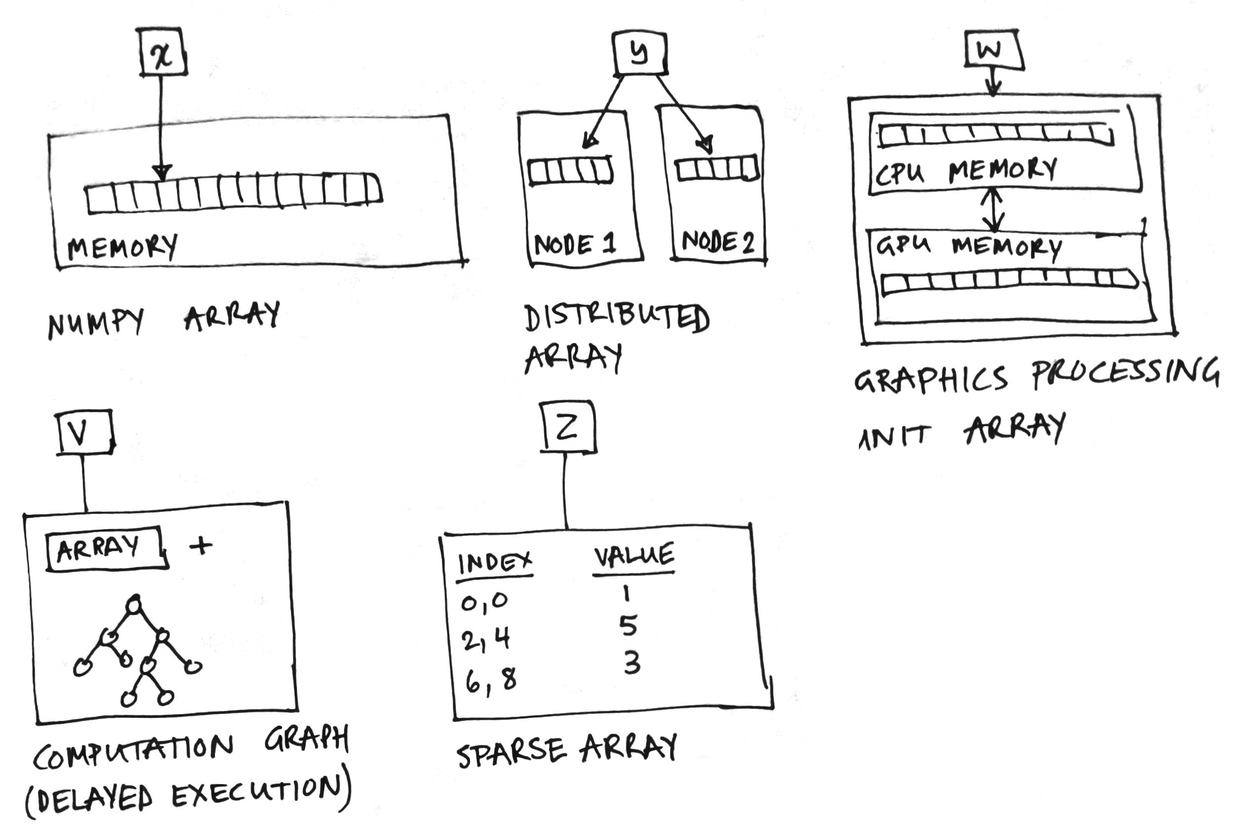
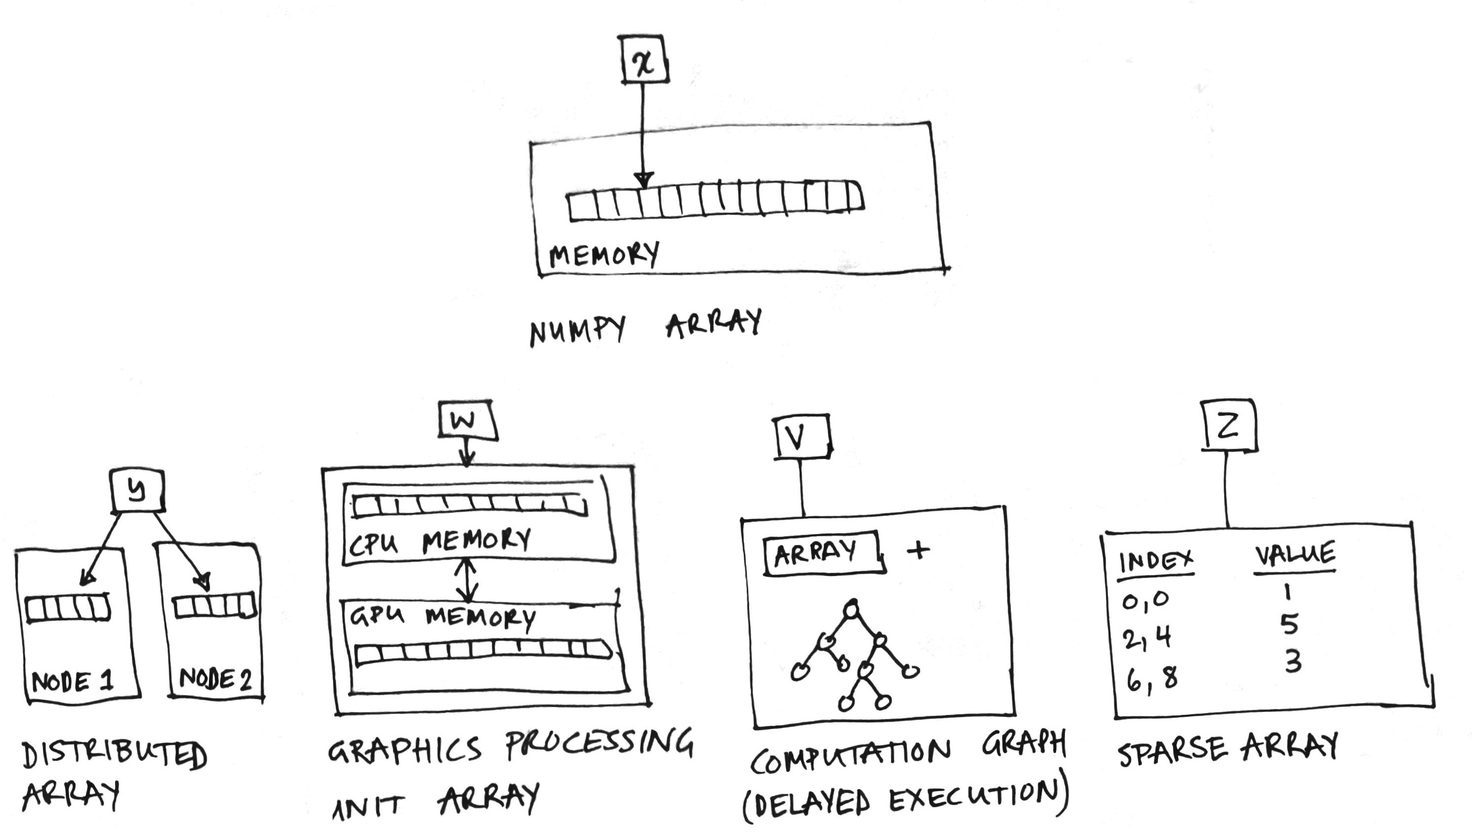
Minor revisions

diff --git a/body.tex b/body.tex
@@ -1,4 +1,4 @@
-Two different Python array packages existed before NumPy.
+Two Python array packages existed before NumPy.
 The Numeric package began in the mid-90s and provided an array object in
 Python, written in C, and linking to standard fast implementations of linear
 algebra.
@@ -38,19 +38,64 @@ a language for array programming.
   \label{fig:array-concepts}
 \end{figure*}
 
-The NumPy array is a data structure that efficiently stores and accesses $n$-dimensional arrays, also known as tensors \cite{vanderwalt2011numpy}, that enables a wide variety of scientific computation.  It consists of a pointer to memory, along with meta-data used to interpret the data stored there, notably {\em data type}, {\em shape}, and {\em strides} (see Figure~\ref{fig:array-concepts}).
+The NumPy array is a data structure that efficiently stores and accesses
+$n$-dimensional arrays \cite{vanderwalt2011numpy}, also known as tensors, that
+enables a wide variety of scientific computation.
+It consists of a pointer to memory, along with meta-data used to interpret the
+data stored there, notably {\em data type}, {\em shape}, and {\em strides}
+(Fig.~\ref{fig:array-concepts}a).
 
-The {\em data type} describes the nature of elements stored in an array.  An array has a single data type, and each array element occupies the same number of bytes in memory.  Examples of data types include real and complex numbers (of lower and higher precision), strings, timestamps, and pointers to Python objects.
+The {\em data type} describes the nature of elements stored in an array.
+An array has a single data type, and each array element occupies the same
+number of bytes in memory.
+Examples of data types include real and complex numbers (of lower and higher
+precision), strings, timestamps, and pointers to Python objects.
 
-The {\em shape} of an array determines the number of elements along each axis, and the number of axes is the array's dimensionality. For example, a vector of numbers can be stored as a one dimensional array of shape $N$, while color videos are four dimensional arrays of shape $T \times M \times N \times 3$.
+The {\em shape} of an array determines the number of elements along each axis,
+and the number of axes is the array's dimensionality.
+For example, a vector of numbers can be stored as a one dimensional array of
+shape $N$, while color videos are four dimensional arrays of shape
+$T \times M \times N \times 3$.
 
-{\em Strides} are necessary to interpret computer memory, which stores elements linearly, as $n$-dimensional arrays.  It describes the number of bytes to move forward in memory to jump from row to row, column to column, and so forth.  Consider, for example, a 2-D array of floating point numbers with shape $4 \times 3$, where each element occupies 8 bytes in memory.  To move between consecutive columns we need to jump forward 8 bytes in memory, and to access the next row $3 \times 8 = 24$ bytes.  The strides of that array are therefore $(24, 8)$.
+{\em Strides} are necessary to interpret computer memory, which stores elements
+linearly, as $n$-dimensional arrays.
+It describes the number of bytes to move forward in memory to jump from row to
+row, column to column, and so forth.
+Consider, for example, a 2-D array of floating point numbers with shape
+$4 \times 3$, where each element occupies 8 bytes in memory.
+To move between consecutive columns we need to jump forward 8 bytes in memory,
+and to access the next row $3 \times 8 = 24$ bytes.
+The strides of that array are therefore $(24, 8)$.
 
-To manipulate the data structure in an intuitive manner, we provide users with a simple yet powerful array expression syntax.  It supports operations such as indexing (selecting subarrays) and element-wise calculations.  A high level syntax allows users to express themselves succinctly, while NumPy deals with the underlying mechanics of making operations fast.
+To manipulate the data structure in an intuitive manner, we provide users with
+a simple yet powerful array expression syntax.
+It supports operations such as indexing (selecting subarrays) and element-wise
+calculations.
+A high level syntax allows users to express themselves succinctly, while NumPy
+deals with the underlying mechanics of making operations fast.
 
-Indexing an array returns single elements, sub-arrays, or elements that satisfy a specific condition.  Arrays can even be indexed using other arrays (see Figure~\ref{fig:array-concepts}).  Wherever possible, indexing that retrieves a subarray returns a {\em view} on the original array, such that data is shared between the two arrays.  This provides a powerful way to operate on subsets of array data, while limiting memory usage.
+Indexing an array returns single elements, sub-arrays, or elements that satisfy
+a specific condition (Fig.~\ref{fig:array-concepts}b).
+Arrays can even be indexed using other arrays (Fig.~\ref{fig:array-concepts}d).
+Wherever possible, indexing that retrieves a subarray returns a {\em view} on
+the original array, such that data is shared between the two arrays.
+This provides a powerful way to operate on subsets of array data, while
+limiting memory usage.
 
-A powerful array feature that affects the way NumPy indexes and combines arrays, is {\em broadcasting}. When performing an operation (such as addition) on two arrays, one intuitively expect that these arrays should be required to have the same shape.  However, through broadcasting, NumPy allows the dimensions to differ, while still producing results that appeal to intuition.  A trivial example is the addition of a scalar value to an array, but it also generalizes to more complex examples such as scaling each column of an array, or generating a grid of coordinates.  In broadcasting, one or both arrays are virtually duplicated (that is, without copying any data in memory), so that the shapes of the operands match (see Figure~\ref{fig:array-concepts}).  Broadcasting is also applied whenever an array is indexed using arrays of indices.% (see Figure~\ref{fig:broadcasting}).
+A powerful array feature that affects the way NumPy indexes and combines
+arrays, is {\em broadcasting}.
+When performing an operation (such as addition) on two arrays, one intuitively
+expect that these arrays should be required to have the same shape.
+However, through broadcasting, NumPy allows the dimensions to differ, while
+still producing results that appeal to intuition.
+A trivial example is the addition of a scalar value to an array, but it also
+generalizes to more complex examples such as scaling each column of an array,
+or generating a grid of coordinates.
+In broadcasting, one or both arrays are virtually duplicated (that is, without
+copying any data in memory), so that the shapes of the operands match
+(Fig.~\ref{fig:array-concepts}c).
+Broadcasting is also applied whenever an array is indexed using arrays of
+indices (Fig.~\ref{fig:array-concepts}d).
 
 \begin{figure}
   \centering
@@ -64,85 +109,109 @@ A powerful array feature that affects the way NumPy indexes and combines arrays,
 %Once data is viewed as an $n$-dimensional array, more abstract operations such
 %as reductions can be defined.
 
-%(e.g., summation across columns, see Figure~\ref{fig:reductions}) products, and %so forth, are
+%(e.g., summation across columns, see Fig.~\ref{fig:reductions}) products, and %so forth, are
 %defined.
 
-To complement the array syntax, NumPy includes several functions that perform element-wise calculations on arrays, including arithmetic, statistics, and trigonometry.  They aim to loop over array elements near-optimally, taking into consideration, e.g., strides, in order to best utilize the computer's fast cache memory.  Vectorized operations that would take many tens of lines to express in languages such as C can often be implemented as a single, clear Python expression.
+To complement the array syntax, NumPy includes several functions that perform
+element-wise calculations on arrays, including arithmetic, statistics, and
+trigonometry.
+They aim to loop over array elements near-optimally, taking into consideration,
+e.g., strides, in order to best utilize the computer's fast cache memory.
+Vectorized operations that would take many tens of lines to express in
+languages such as C can often be implemented as a single, clear Python
+expression.
 
-Many of these functions, such as summation, support reductions: aggregating results across over or more dimension of the array.  For example, summing a $D$-dimensional array over $p$ axes results in a $D-p$-dimensional array, as shown in Figure~\ref{fig:reductions}.
+Many of these functions, such as summation, support reductions: aggregating
+results across over or more dimension of the array.
+For example, summing a $D$-dimensional array over $p$ axes results in a
+$D-p$-dimensional array (Fig.~\ref{fig:reductions}).
 
-Other utility functions include creating, reshaping, concatenating, and padding arrays; searching, sorting and counting data; and reading and writing files.  NumPy provides extensive support for generating pseudorandom numbers and includes an assortment of probability distributions. It also performs accelerated linear algebra, utilising one of several backends such as OpenBLAS and Intel MKL optimized for the CPUs at hand.
+Other utility functions include creating, reshaping, concatenating, and padding
+arrays; searching, sorting and counting data; and reading and writing files.
+NumPy provides extensive support for generating pseudorandom numbers and
+includes an assortment of probability distributions.
+It also performs accelerated linear algebra, utilising one of several backends
+such as OpenBLAS and Intel MKL optimized for the CPUs at hand.
 
-Users predominantly interact with NumPy arrays using {\em indexing} (to access sub-arrays or individual elements), {\em operators} (e.g., $+$, $-$, $\times$, and, for matrix multiplication, $@$), as well as {\em utility functions}; together, these provide an easily readable, expressive, high-level API for array programming.  Exposing these array programming primitives in Python---an interpreted language---creates an ideal environment for exploratory data analysis \cite{perez2007ipython} where users may inspect, manipulate, and visualize their data.
+Users predominantly interact with NumPy arrays using {\em indexing} (to access
+sub-arrays or individual elements), {\em operators} (e.g., $+$, $-$, $\times$,
+and, for matrix multiplication, $@$), as well as {\em utility functions};
+together, these provide an easily readable, expressive, high-level API for
+array programming.
+Exposing these array programming primitives in Python---an interpreted
+language---creates an ideal environment for exploratory data analysis where
+users may inspect, manipulate, and visualize their data
+\cite{perez2007ipython}.
 
-\fixme{This end of paragraph needs fixing up}Instead of focusing on programming, users can bring their attention to understanding and interacting with their data.
+\section*{The proliferation of arrays}
 
-% + interactivity
-% users tend to "live in their data",
-% interactivity and powerful, expressive syntax ... inspect, feel their way forward, experiment
-% collect these into imperative or functional programs ....
-% not that they never plan, often do ... but the ability to stopping "programming"
-% and experiment is a key factor in why people use numpy ....
-
-\section*{Changing computational landscape}
-
-NumPy was initially developed by students, faculty, and researchers in their
-spare time to provide a modern array programming library for Python.
-They were influenced by their experiences with powerful interactive programming
-languages for scientific computing like Yorick \cite{munro1995using} as well
-as commercial languages like IDL and Matlab.
-Often they developed code to solve their own or their colleagues' problems.
-
-As Python's popularity for scientific computing, data science, and machine
-learning increased, many new challenges and use cases arose.
-
-\fixme{The idea here is something like:  classic numpy (as described above)
-was built to solve previous problems; new problems have arisen as
-the computational landscape has changed; new hardware, new languages,
-new problems; as a result np's role has changed; it is a foundational
-tool widely-used not a specialist tool used by scientist developers;
-many array-like libraries for various uses and np is serving as
-a standard)}
-
-- GPUs
-
-- distributed computing
-
-- other languages w/ arrays
-
-- massive explosion in data science, machine learning, and artificial intelligence
-
-NumPy also went from a small community of mostly expert users to
-one of the most widely used foundations of the scientific Python
-ecosystem.
-Now the user base is very different....
-% maybe worth a sentence or two about how we are working on web and
-% user docs to make it easier for new users to get started...
-
-\section*{Extensibility and Interoperability}
 
 \begin{figure*}
   \centering
   \includegraphics[width=0.8\textwidth]{static/sketches/duck-arrays}
-  \caption{\textbf{Duck Arrays.} \fixme{Examples of so-called ``duck arrays'': arrays
-  implemented by another library that behave like NumPy arrays, and
-  support NumPy operations.  Through protocols, it is possible to have
-  a call such as $\cos(\cdot)$ succeed on each of these.}}
-  \label{fig:duck-arrays}
+  \caption{\textbf{Proliferation of Arrays.} Many ...}
+  \label{fig:array-proliferation}
 \end{figure*}
 
-NumPy's API has become ubiquitous in scientific computation, but NumPy itself can never hope to satisfy every single specialized need of the community.  The advent of new technologies, such as GPUs, create opportunities that should be exploited, but are out of scope for NumPy development.  Still, the widespread adoption of the NumPy API is valuable, as it lowers the barrier to entry and provides stability to the community.  What can NumPy do to support the use of its API without blocking innovation?  We believe that improving interoperability by having NumPy be a central coordinator among array objects is a good way to balance stability while supporting growth of a larger surrounding ecosystem of specialized solutions and new tools.
+(Fig.~\ref{fig:array-proliferation})
 
-Primarily, there exist two types of Python array objects: subclasses of NumPy arrays, and arrays that mimic NumPy arrays but are fundamentally different.
+- distributed arrays
 
-Subclasses of NumPy often exist due to difficulty in constructing richer data types, such as quantities with physical units \cite{astropy,Goldbaum2018,pint}, geometrical objects \cite{pygeos}, and missing numbers.  To improve {\em extensibility}, we are currently overhauling the data type system to make it easier to implement data types both in Python and C, and to support these and other applications.
+- GPUs
 
-There has been a steady increase in the number of external libraries that mimic NumPy, i.e. provide arrays and a NumPy-like API for manipulating them.  This includes popular tensor computation libraries such as CuPy\footnote{\url{https://cupy.chainer.org/}}, JAX\footnote{\url{https://jax.readthedocs.io/en/latest/jax.numpy.html}}, and Apache MXNet\footnote{\url{https://numpy.mxnet.io/}}.  PyTorch\footnote{\url{https://pytorch.org/tutorials/beginner/blitz/tensor\_tutorial.html}} and Tensorflow\footnote{\url{https://www.tensorflow.org/tutorials/customization/basics}} provide tensor APIs with NumPy-inspired semantics.
-Ideally, operating on these arrays using NumPy would simply work, so that end users could write code once, and would then benefit from switching between NumPy arrays, GPU arrays, distributed arrays, and so forth, as appropriate.
+- computation graph
 
-To facilitate {\em interoperability}, the NumPy team is defining so-called ``protocols'' (or contracts of operation), that allow for these arrays to be passed to NumPy functions.  NumPy, in turn, dispatches operations to the originating library, as required.
+- sparse arrays
 
-\url{https://numpy.org/neps/nep-0037-array-module.html}
+- other languages w/ arrays
+
+- massive explosion in data science, machine learning, and artificial intelligence (tensors)
+
+
+\section*{Extensibility and Interoperability}
+
+
+NumPy's API has become ubiquitous in scientific computation, but NumPy itself
+can never hope to satisfy every single specialized need of the community.
+The advent of new technologies, such as GPUs, create opportunities that should be
+exploited, but are out of scope for NumPy development.
+Still, the widespread adoption of the NumPy API is valuable, as it lowers the
+barrier to entry and provides stability to the community.
+What can NumPy do to support the use of its API without blocking innovation?
+We believe that improving interoperability by having NumPy be a central
+coordinator among array objects is a good way to balance stability while
+supporting growth of a larger surrounding ecosystem of specialized solutions
+and new tools.
+Primarily, there exist two types of Python array objects: subclasses of NumPy
+arrays, and arrays that mimic NumPy arrays but are fundamentally different.
+
+Subclasses of NumPy often exist due to difficulty in constructing richer data
+types, such as quantities with physical units \cite{astropy,Goldbaum2018,pint},
+geometrical objects \cite{pygeos}, and missing numbers.
+To improve \emph{extensibility}, we are currently overhauling the data type
+system to make it easier to implement data types both in Python and C, and to
+support these and other applications.
+
+There has been a steady increase in the number of external libraries that mimic
+NumPy, i.e. provide arrays and a NumPy-like API for manipulating them.
+This includes popular tensor computation libraries such as
+CuPy\footnote{\url{https://cupy.chainer.org/}},
+JAX\footnote{\url{https://jax.readthedocs.io/en/latest/jax.numpy.html}}, and
+Apache MXNet\footnote{\url{https://numpy.mxnet.io/}}.
+PyTorch\footnote{\url{https://pytorch.org/tutorials/beginner/blitz/tensor\_tutorial.html}}
+and
+Tensorflow\footnote{\url{https://www.tensorflow.org/tutorials/customization/basics}}
+provide tensor APIs with NumPy-inspired semantics.
+Ideally, operating on these arrays using NumPy would simply work, so that end
+users could write code once, and would then benefit from switching between
+NumPy arrays, GPU arrays, distributed arrays, and so forth, as appropriate.
+
+To facilitate \emph{interoperability}, the NumPy team is defining so-called
+``protocols'' (or contracts of operation), that allow for these arrays to be
+passed to NumPy functions.
+NumPy, in turn, dispatches operations to the originating library, as required.
+
+%\url{https://numpy.org/neps/nep-0037-array-module.html}
 
 % https://numpy.org/neps/nep-0016-abstract-array.html
 % https://numpy.org/neps/nep-0018-array-function-protocol.html
@@ -156,68 +225,42 @@ To facilitate {\em interoperability}, the NumPy team is defining so-called ``pro
 % aka why is this so successful
 % some sense of ongoing work / future directions
 
+NumPy was initially developed by students, faculty, and researchers in their
+spare time to provide a modern array programming library for Python.
+They were influenced by their experiences with powerful interactive programming
+languages for scientific computing like Yorick \cite{munro1995using} as well
+as commercial languages like IDL and Matlab.
+Often they developed code to solve their own or their colleagues' problems.
 
-The creation of NumPy spurred renewed development in the larger scientific
-Python ecosystem and heralded the current era of wide-spread use of Python for
-scientific computing.
-There were several factors that allowed this rapid growth
-and successful development.
+NumPy spurred the development of the larger scientific Python ecosystem and
+heralded the current era of wide-spread use of Python for scientific computing.
+There were several factors that allowed this rapid growth and successful
+development.
 
-Hugunin identified the first factor in his initial description of the Numeric
-package \cite{Hugunin-whitepaper}.  Numerical computing is usually one
-component of a larger programming task, therefore:
-\begin{quote}
-    Rather than trying to retrofit an existing numerical language to support
-    the wealth of features found in a powerful, modern, general-purpose
-    programming language, it makes much more sense to attack the problem from
-    the other direction and add the features of a powerful numerical
-    programming language to Python.
-\end{quote}
 Python is already a good choice for many standard programming tasks such as
-cleaning data, interacting with web resources and parsing text.  It has a wide
-range of libraries for many different tasks. Adding fast array operations and
-linear algebra allows the scientist to do all their work with within the same
-language---and one that has the advantage of being famously easy to learn and
-teach.
+cleaning data, interacting with web resources and parsing text.
+It has a wide range of libraries for many different tasks.
+Adding fast array operations and linear algebra allows the scientist to do all
+their work with within the same language---and one that has the advantage of
+being famously easy to learn and teach.
 
-The second factor flows from Python's nature as an open-source language,
-embedded within the open-source community.  Python attracts developers who like
-to build and contribute.  As a result, NumPy has always been a library that was
-developed by scientists in order to do their work.  Commercial specialist
-numerical languages can encourage consumer-users, who pick up a tool and use
-it, but do not expect to contribute to development. %<-sentence a bit tough to parse.
-In contrast, NumPy often
-attracts user-developers, who want to work with NumPy, and are prepared to fix
-and extend the library as they work. User-developers have been the fundamental
-force in developing NumPy, and shaping it into a library that has been refined
-in the furnace of practical scientific work.
-
-The third factor is much like the second: 
-%a culture in Python that concentrates
-%on high quality of code and distribution.  Because Python is open-source, it has
-%a strong culture of contribution, and therefore, of using tools and process to
-%improve collaborative software development, such as distributed version
-%control, code review, and automated testing.  These have allowed the project to
-%scale safely as it attracted more users and developers, even though these
-%developers rarely came to the project with training in software engineering.
-the project has strong culture of using software-engineering practice to
+NumPy has strong culture of using software-engineering practice to
 improve collaboration and reduce error \cite{millman2014developing}.
-The NumPy team was early in adopting distributed
-revision control and code review to improve collaboration on code, and
-continuous testing that runs a large battery of automated tests for every proposed
-change to NumPy.
-The project has comprehensive, high-quality documentation,
-integrated with the source
-code \cite{vanderwalt2008scipy,harrington2008scipy,harrington2009scipy}. 
+The NumPy team was early in adopting distributed revision control and code
+review to improve collaboration on code, and continuous testing that runs a
+large battery of automated tests for every proposed change to NumPy.
+The project has comprehensive, high-quality documentation, integrated with the
+source code \cite{vanderwalt2008scipy,harrington2008scipy,harrington2009scipy}. 
 
-Lastly, we believe NumPy has benefited greatly from a well-chosen application
-programming interface (API).  Scientific and numerical programming needs to be
-fast, and scale to very large datasets.  The NumPy API defines a simple wrapper
-for data in memory so it can be represented as a one- or multi-dimensional
-array.  The simplicity of this wrapper has made it very successful as a
-standard way of representing arrays in memory, and has made it relatively easy
-for other libraries to develop fast and memory-efficient compiled code, usually
-in C or Fortran, that can manipulate these arrays and pass them back to Python.
+Lastly, NumPy has benefited greatly from a well-chosen API.
+Scientific and numerical programming needs to be fast, and scale to very large
+datasets.
+The NumPy API defines a simple wrapper for data in memory so it can be
+represented as a one- or multi-dimensional array.
+The simplicity of this wrapper has made it very successful as a standard way of
+representing arrays in memory, and has made it relatively easy for other
+libraries to develop fast and memory-efficient compiled code, usually in C or
+Fortran, that can manipulate these arrays and pass them back to Python.
 This has been a large factor in the growth of numerical computing libraries
 around NumPy and Python.
 

diff --git a/summary.tex b/summary.tex
@@ -21,7 +21,7 @@ Array programming provides powerful notation for accessing,
 manipulating, and operating on data in vectors, matrices, and
 higher-dimensional arrays \cite{iverson1980notation}.
 % - a brief account of the background and rationale of the work;
-NumPy is the fundamental array programming library for the Python ecosystem
+NumPy is the fundamental array programming library for the Python programming language
 \cite{dubois2007guest,oliphant2007python,millman2011python,perez2011python}.
 It has been actively developed for over two decades and has more than 850
 contributors, nearly 300,000 dependent repositories on GitHub, and millions of
@@ -36,13 +36,15 @@ universe\cite{jenness2018lsst}.
 It is one of the most commonly used machine learning tools among
 enterprises \cite{451report2018}.
 % - a statement of the main conclusions (introduced by the phrase 'Here we show' or its equivalent);
-Here we show how a small group of students and scientists created this
-popular tool, explain the core ideas that helped make it it successful,
-and highlight recent development to better serve new use cases
-and future improvements.
+Here we show how a few core ideas lead to a simple and powerful array syntax.
 % - 2-3 sentences putting the main findings into general context so it is
 %   clear how the results described in the paper have moved the field forwards.
-NumPy continues to evolve to meet the needs of its community, to remain
-relevant in an ever-changing computing landscape, and to be a fundamental
-pillar of support for the next decade of scientific computing, data science,
-and machine learning in Python.
+NumPy arrays are so popular that several project have developed their own
+NumPy-like interface and array objects targeting audiences with specialized
+needs.
+Because of this, NumPy plays a unique role in enabling disparate technologies
+to interact and exchange.
+%NumPy continues to evolve to meet the needs of its community, to remain
+%relevant in an ever-changing computing landscape, and to be a fundamental
+%pillar of support for the next decade of scientific computing, data science,
+%and machine learning in Python.
